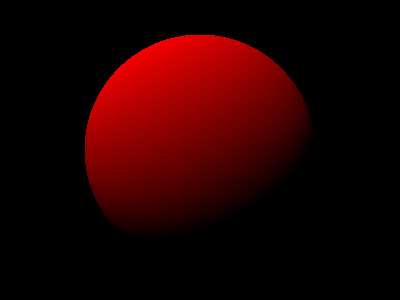
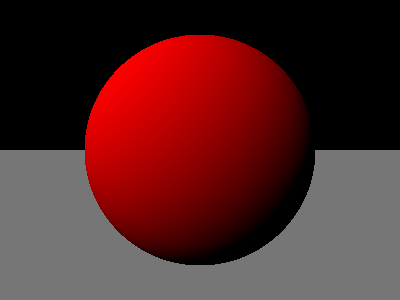
Tech lead review: the ray inside the sphere, unit vectors

diff --git a/tests/render/test_trace.cpp b/tests/render/test_trace.cpp
@@ -1,41 +1,44 @@
 #include <catch2/catch_test_macros.hpp>
 
+#include <memory>
+
 #include "colour/colour.h"
 #include "geometry/ray.h"
 #include "geometry/sphere.h"
 #include "material/material.h"
 #include "math/vector.h"
 #include "render/trace.h"
+#include "scene/scene.h"
 #include "test_helpers.h"
 
 TEST_CASE("trace: sun behind eye, centre hit, gives full red", "[trace]") {
+    Scene scene(Vector(0, 0, -1));
+    scene.add(std::make_unique<Sphere>(Vector(0, 0, 9), 5, Material(Colour(1, 0, 0))));
     Ray ray(Vector(0, 0, -1), Vector(0, 0, 1));
-    Sphere sphere(Vector(0, 0, 9), 5, Material(Colour(1, 0, 0)));
-    Vector toLight(0, 0, -1);
 
-    requireColoursEqual(trace(ray, sphere, toLight), Colour(1, 0, 0));
+    requireColoursEqual(trace(ray, scene), Colour(1, 0, 0));
 }
 
 TEST_CASE("trace: sun at 0.8 cosine gives 0.8 red", "[trace]") {
+    Scene scene(Vector(0.6, 0, -0.8));
+    scene.add(std::make_unique<Sphere>(Vector(0, 0, 9), 5, Material(Colour(1, 0, 0))));
     Ray ray(Vector(0, 0, -1), Vector(0, 0, 1));
-    Sphere sphere(Vector(0, 0, 9), 5, Material(Colour(1, 0, 0)));
-    Vector toLight(0.6, 0, -0.8);
 
-    requireColoursEqual(trace(ray, sphere, toLight), Colour(0.8, 0, 0));
+    requireColoursEqual(trace(ray, scene), Colour(0.8, 0, 0));
 }
 
 TEST_CASE("trace: side hit with sun behind eye gives 0.8 red", "[trace]") {
+    Scene scene(Vector(0, 0, -1));
+    scene.add(std::make_unique<Sphere>(Vector(3, 0, 9), 5, Material(Colour(1, 0, 0))));
     Ray ray(Vector(0, 0, -1), Vector(0, 0, 1));
-    Sphere sphere(Vector(3, 0, 9), 5, Material(Colour(1, 0, 0)));
-    Vector toLight(0, 0, -1);
 
-    requireColoursEqual(trace(ray, sphere, toLight), Colour(0.8, 0, 0));
+    requireColoursEqual(trace(ray, scene), Colour(0.8, 0, 0));
 }
 
 TEST_CASE("trace gives black when the ray misses the sphere", "[trace]") {
+    Scene scene(Vector(0, 0, -1));
+    scene.add(std::make_unique<Sphere>(Vector(6, 0, 9), 5, Material(Colour(1, 0, 0))));
     Ray ray(Vector(0, 0, -1), Vector(0, 0, 1));
-    Sphere sphere(Vector(6, 0, 9), 5, Material(Colour(1, 0, 0)));
-    Vector toLight(0, 0, -1);
 
-    requireColoursEqual(trace(ray, sphere, toLight), Colour(0, 0, 0));
+    requireColoursEqual(trace(ray, scene), Colour(0, 0, 0));
 }

diff --git a/tests/scene/test_scene.cpp b/tests/scene/test_scene.cpp
@@ -1,0 +1,55 @@
+#include <catch2/catch_test_macros.hpp>
+#include <catch2/matchers/catch_matchers_floating_point.hpp>
+
+#include <memory>
+
+#include "colour/colour.h"
+#include "geometry/plane.h"
+#include "geometry/sphere.h"
+#include "material/material.h"
+#include "math/vector.h"
+#include "scene/scene.h"
+#include "test_helpers.h"
+
+using Catch::Matchers::WithinAbs;
+
+TEST_CASE("scene normalises toLight", "[scene]") {
+    Scene scene(Vector(0, 3, -4));
+
+    requireVectorsEqual(scene.toLight(), Vector(0, 0.6, -0.8));
+}
+
+TEST_CASE("scene: near plane in front of sphere wins", "[scene]") {
+    Scene scene(Vector(0, 0, -1));
+    scene.add(std::make_unique<Sphere>(Vector(0, 0, 9), 5, Material(Colour(1, 0, 0))));
+    scene.add(std::make_unique<Plane>(Vector(0, 0, 2), Vector(0, 0, -1), Material(Colour(0, 0, 1))));
+
+    Ray ray(Vector(0, 0, -1), Vector(0, 0, 1));
+    auto hit = scene.nearestHit(ray);
+
+    REQUIRE(hit.has_value());
+    REQUIRE_THAT(hit->t, WithinAbs(3.0, tolerance));
+    requireColoursEqual(hit->material.colour(), Colour(0, 0, 1));
+}
+
+TEST_CASE("scene: sphere in front of far plane wins", "[scene]") {
+    Scene scene(Vector(0, 0, -1));
+    scene.add(std::make_unique<Sphere>(Vector(0, 0, 9), 5, Material(Colour(1, 0, 0))));
+    scene.add(std::make_unique<Plane>(Vector(0, 0, 20), Vector(0, 0, -1), Material(Colour(0, 0, 1))));
+
+    Ray ray(Vector(0, 0, -1), Vector(0, 0, 1));
+    auto hit = scene.nearestHit(ray);
+
+    REQUIRE(hit.has_value());
+    REQUIRE_THAT(hit->t, WithinAbs(5.0, tolerance));
+    requireColoursEqual(hit->material.colour(), Colour(1, 0, 0));
+}
+
+TEST_CASE("scene: ray that hits nothing returns no hit", "[scene]") {
+    Scene scene(Vector(0, 0, -1));
+    scene.add(std::make_unique<Sphere>(Vector(6, 0, 9), 5, Material(Colour(1, 0, 0))));
+
+    Ray ray(Vector(0, 0, -1), Vector(0, 0, 1));
+
+    REQUIRE_FALSE(scene.nearestHit(ray).has_value());
+}

diff --git a/tests/render/test_camera.cpp b/tests/render/test_camera.cpp
@@ -1,5 +1,6 @@
 #include <catch2/catch_test_macros.hpp>
 
+#include <memory>
 #include <string>
 #include <vector>
 
@@ -10,9 +11,9 @@
 #include "material/material.h"
 #include "math/vector.h"
 #include "render/camera.h"
+#include "scene/scene.h"
 #include "test_helpers.h"
 
-// This morning's tests: the one pixel of a 1 by 1 image is the centre of the screen.
 TEST_CASE("in a 1 by 1 image, the ray goes from the eye to the screen centre", "[camera]") {
     Camera camera(Vector(0, 0, -1), Vector(0, 0, 0), 2);
 
@@ -61,10 +62,10 @@ TEST_CASE("the bottom-left pixel's ray goes left and down", "[camera]") {
 
 TEST_CASE("render gives an image of the size asked for", "[camera]") {
     Camera camera(Vector(0, 0, -1), Vector(0, 0, 0), 5);
-    Sphere sphere(Vector(0, 0, 6), 5, Material(Colour(1, 0, 0)));
-    Vector toLight(0, 0, -1);
+    Scene scene(Vector(0, 0, -1));
+    scene.add(std::make_unique<Sphere>(Vector(0, 0, 6), 5, Material(Colour(1, 0, 0))));
 
-    Image image = camera.render(sphere, toLight, 5, 3);
+    Image image = camera.render(scene, 5, 3);
 
     REQUIRE(image.width() == 5);
     REQUIRE(image.height() == 3);
@@ -72,10 +73,10 @@ TEST_CASE("render gives an image of the size asked for", "[camera]") {
 
 TEST_CASE("render: centre pixel is full red, neighbours are 0.8 red", "[camera]") {
     Camera camera(Vector(0, 0, -1), Vector(0, 0, 0), 5);
-    Sphere sphere(Vector(0, 0, 6), 5, Material(Colour(1, 0, 0)));
-    Vector toLight(0, 0, -1);
+    Scene scene(Vector(0, 0, -1));
+    scene.add(std::make_unique<Sphere>(Vector(0, 0, 6), 5, Material(Colour(1, 0, 0))));
 
-    Image image = camera.render(sphere, toLight, 5, 3);
+    Image image = camera.render(scene, 5, 3);
 
     // Centre pixel (2,1): normal (0,0,-1), toLight (0,0,-1) → cosine 1 → full red
     requireColoursEqual(image.pixel(2, 1), Colour(1, 0, 0));

diff --git a/tests/geometry/test_plane.cpp b/tests/geometry/test_plane.cpp
@@ -1,0 +1,50 @@
+#include <catch2/catch_test_macros.hpp>
+#include <catch2/matchers/catch_matchers_floating_point.hpp>
+
+#include "colour/colour.h"
+#include "geometry/plane.h"
+#include "geometry/ray.h"
+#include "material/material.h"
+#include "math/vector.h"
+#include "test_helpers.h"
+
+using Catch::Matchers::WithinAbs;
+
+TEST_CASE("floor: ray hits at t=2, point (6,0,0), normal (0,1,0)", "[plane]") {
+    Plane floor(Vector(0, 0, 0), Vector(0, 1, 0), Material(Colour(0, 1, 0)));
+    Ray ray(Vector(0, 8, 0), Vector(3, -4, 0));
+
+    auto hit = floor.hit(ray);
+
+    REQUIRE(hit.has_value());
+    REQUIRE_THAT(hit->t, WithinAbs(2.0, tolerance));
+    requireVectorsEqual(hit->point, Vector(6, 0, 0));
+    requireVectorsEqual(hit->normal, Vector(0, 1, 0));
+    requireColoursEqual(hit->material.colour(), Colour(0, 1, 0));
+}
+
+TEST_CASE("slanted plane: ray hits at t=2, point (0,6,0), normal (0.6,0.8,0)", "[plane]") {
+    Plane slant(Vector(8, 0, 0), Vector(3, 4, 0), Material(Colour(1, 0, 0)));
+    Ray ray(Vector(-8, 0, 0), Vector(4, 3, 0));
+
+    auto hit = slant.hit(ray);
+
+    REQUIRE(hit.has_value());
+    REQUIRE_THAT(hit->t, WithinAbs(2.0, tolerance));
+    requireVectorsEqual(hit->point, Vector(0, 6, 0));
+    requireVectorsEqual(hit->normal, Vector(0.6, 0.8, 0));
+}
+
+TEST_CASE("ray parallel to floor gives no hit", "[plane]") {
+    Plane floor(Vector(0, 0, 0), Vector(0, 1, 0), Material(Colour(0, 1, 0)));
+    Ray ray(Vector(0, 8, 0), Vector(5, 0, 0));
+
+    REQUIRE_FALSE(floor.hit(ray).has_value());
+}
+
+TEST_CASE("floor behind the ray gives no hit", "[plane]") {
+    Plane floor(Vector(0, 0, 0), Vector(0, 1, 0), Material(Colour(0, 1, 0)));
+    Ray ray(Vector(0, 8, 0), Vector(3, 4, 0));
+
+    REQUIRE_FALSE(floor.hit(ray).has_value());
+}

diff --git a/src/main.cpp b/src/main.cpp
@@ -1,20 +1,25 @@
 #include <iostream>
+#include <memory>
 #include <string>
 
 #include "colour/colour.h"
+#include "geometry/plane.h"
 #include "geometry/sphere.h"
-#include "material/material.h"
 #include "image/image.h"
+#include "material/material.h"
 #include "math/vector.h"
 #include "output/png_saver.h"
 #include "render/camera.h"
+#include "scene/scene.h"
 
 int main() {
     Camera camera(Vector(0, 0, -1), Vector(0, 0, 0), 2);
-    Sphere sphere(Vector(0, 0, 9), 5, Material(Colour(1, 0, 0)));
 
-    Vector toLight = Vector(-1, 2, -1).normalised();
-    Image image = camera.render(sphere, toLight, 400, 300);
+    Scene scene(Vector(-1, 1, -1));
+    scene.add(std::make_unique<Sphere>(Vector(0, 0, 9), 5, Material(Colour(1, 0, 0))));
+    scene.add(std::make_unique<Plane>(Vector(0, -5, 0), Vector(0, 1, 0), Material(Colour(0.8, 0.8, 0.8))));
+
+    Image image = camera.render(scene, 400, 300);
 
     std::string path = "image.png";
     PngSaver saver;

diff --git a/src/render/camera.cpp b/src/render/camera.cpp
@@ -14,12 +14,12 @@ Ray Camera::rayThroughPixel(int column, int row, int width, int height) const {
     return Ray(_eye, pixel - _eye);
 }
 
-Image Camera::render(const Sphere& sphere, const Vector& toLight, int width, int height) const {
+Image Camera::render(const Scene& scene, int width, int height) const {
     Image image(width, height);
     for (int row = 0; row < height; row++) {
         for (int column = 0; column < width; column++) {
             Ray ray = rayThroughPixel(column, row, width, height);
-            image.setPixel(column, row, trace(ray, sphere, toLight));
+            image.setPixel(column, row, trace(ray, scene));
         }
     }
     return image;

diff --git a/src/scene/scene.cpp b/src/scene/scene.cpp
@@ -1,0 +1,22 @@
+#include "scene/scene.h"
+
+#include <utility>
+
+Scene::Scene(const Vector& toLight) : _toLight(toLight.normalised()) {}
+
+const Vector& Scene::toLight() const { return _toLight; }
+
+void Scene::add(std::unique_ptr<Shape> shape) {
+    _shapes.push_back(std::move(shape));
+}
+
+std::optional<Hit> Scene::nearestHit(const Ray& ray) const {
+    std::optional<Hit> nearest;
+    for (const auto& shape : _shapes) {
+        auto hit = shape->hit(ray);
+        if (hit && (!nearest || hit->t < nearest->t)) {
+            nearest = hit;
+        }
+    }
+    return nearest;
+}

diff --git a/tests/geometry/test_sphere.cpp b/tests/geometry/test_sphere.cpp
@@ -50,3 +50,15 @@ TEST_CASE("a sphere behind the ray returns no hit", "[sphere]") {
 
     REQUIRE_FALSE(sphere.hit(ray).has_value());
 }
+
+TEST_CASE("a ray starting inside the sphere exits at t=7, normal (0,0,1)", "[sphere]") {
+    Ray ray(Vector(0, 0, 0), Vector(0, 0, 1));
+    Sphere sphere(Vector(0, 0, 1), 5, Material(Colour(1, 0, 0)));
+
+    auto hit = sphere.hit(ray);
+
+    REQUIRE(hit.has_value());
+    REQUIRE_THAT(hit->t, WithinAbs(6.0, tolerance));
+    requireVectorsEqual(hit->point, Vector(0, 0, 6));
+    requireVectorsEqual(hit->normal, Vector(0, 0, 1));
+}

diff --git a/src/geometry/plane.cpp b/src/geometry/plane.cpp
@@ -1,0 +1,18 @@
+#include "geometry/plane.h"
+
+Plane::Plane(const Vector& point, const Vector& normal, const Material& material)
+    : _point(point), _normal(normal.normalised()), _material(material) {}
+
+std::optional<Hit> Plane::hit(const Ray& ray) const {
+    double nDotD = _normal.dot(ray.direction());
+    if (nDotD == 0.0) {
+        return std::nullopt;
+    }
+
+    double t = _normal.dot(_point - ray.origin()) / nDotD;
+    if (t <= 0.0) {
+        return std::nullopt;
+    }
+
+    return Hit{t, ray.at(t), _normal, _material};
+}

diff --git a/src/render/camera.h b/src/render/camera.h
@@ -1,16 +1,16 @@
 #pragma once
 
 #include "geometry/ray.h"
-#include "geometry/sphere.h"
 #include "image/image.h"
 #include "math/vector.h"
+#include "scene/scene.h"
 
 class Camera {
   public:
     Camera(const Vector& eye, const Vector& screenCentre, double screenWidth);
 
     Ray rayThroughPixel(int column, int row, int width, int height) const;
-    Image render(const Sphere& sphere, const Vector& toLight, int width, int height) const;
+    Image render(const Scene& scene, int width, int height) const;
 
   private:
     Vector _eye;

diff --git a/src/scene/scene.h b/src/scene/scene.h
@@ -1,0 +1,23 @@
+#pragma once
+
+#include <memory>
+#include <optional>
+#include <vector>
+
+#include "geometry/hit.h"
+#include "geometry/ray.h"
+#include "geometry/shape.h"
+#include "math/vector.h"
+
+class Scene {
+  public:
+    explicit Scene(const Vector& toLight);
+
+    const Vector& toLight() const;
+    void add(std::unique_ptr<Shape> shape);
+    std::optional<Hit> nearestHit(const Ray& ray) const;
+
+  private:
+    Vector _toLight;
+    std::vector<std::unique_ptr<Shape>> _shapes;
+};

diff --git a/src/geometry/plane.h b/src/geometry/plane.h
@@ -1,0 +1,21 @@
+#pragma once
+
+#include <optional>
+
+#include "geometry/hit.h"
+#include "geometry/ray.h"
+#include "geometry/shape.h"
+#include "material/material.h"
+#include "math/vector.h"
+
+class Plane : public Shape {
+  public:
+    Plane(const Vector& point, const Vector& normal, const Material& material);
+
+    std::optional<Hit> hit(const Ray& ray) const override;
+
+  private:
+    Vector _point;
+    Vector _normal;
+    Material _material;
+};
